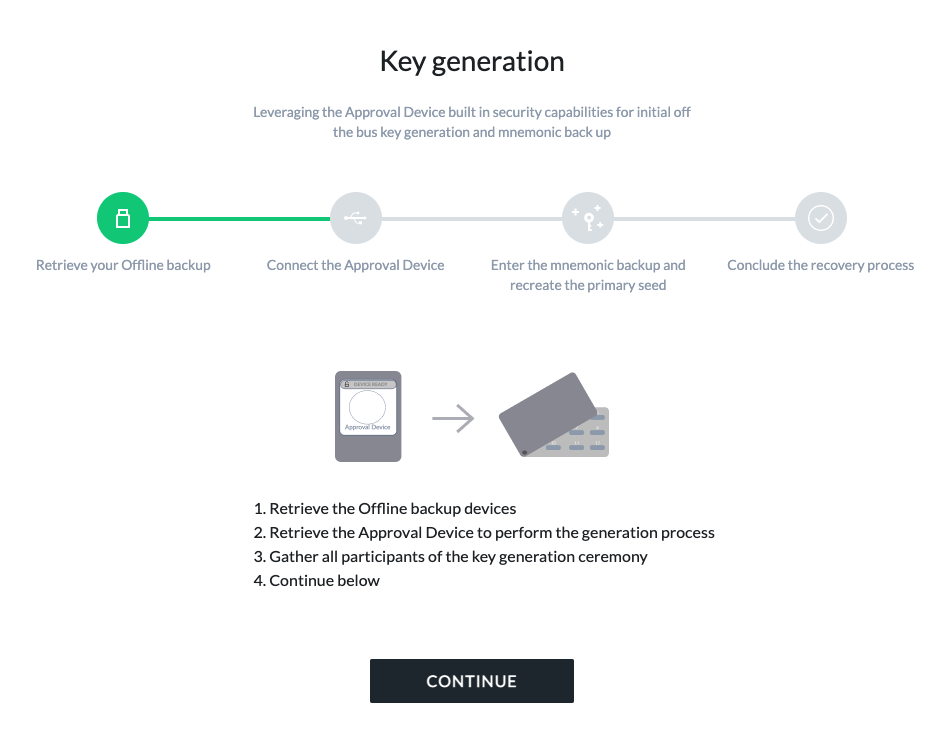
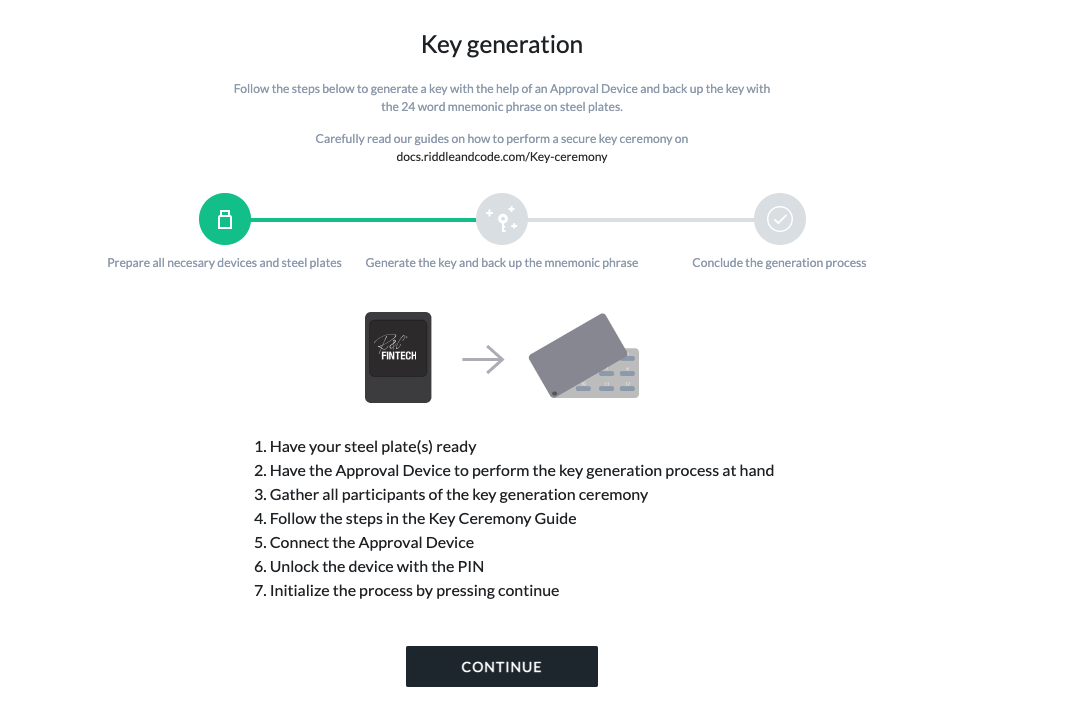
updated key ceremony with lates screenshots

Changed region(s): [[0.0305, 0.0311, 0.9748, 0.4045], [0.2437, 0.4356, 0.7616, 0.8402], [0.3655, 0.8713, 0.6092, 0.9958]]

diff --git a/docs/Key_ceremony_3_participants_3_plates.md b/docs/Key_ceremony_3_participants_3_plates.md
@@ -27,7 +27,7 @@ You will need the following:
 
 - The Approval Device - Seed edition.
 
-![Approval Device](./Approvaldevice.png/)
+![Approval Device](./assets/Approvaldevice.png)
 
 - A reliable computer with access to the Internet. RIDDLE&CODE recommends using Chrome, at least version 87.0.
 - 3 steel plates.
@@ -102,7 +102,7 @@ This will trigger the generation of a true random number—mnemonic phrase, whic
 - Next, the master of the ceremony asks the first participant to leave the room, and the second participant enters.
 
 
-###Second participant
+### Second participant
 - The master of ceremony opens the plates A (the side that doesn’t contain words) and C.
 - The second participant clicks on the Approval Device and privately reads the next 8 words.
 - The participant writes them down in plates A and C using the available slots  5 to 12 (the second and the third row).
@@ -110,7 +110,7 @@ This will trigger the generation of a true random number—mnemonic phrase, whic
 - The plate A is completed.
 
 
-###Third participant
+### Third participant
 - The master of ceremony and the third participant join the second participant, who then leaves.
 - The master of ceremony opens the plates B and C (the sides that contain no words).
 - The third participant clicks on the Approval Device and privately reads the final 8 words.
@@ -121,7 +121,7 @@ This will trigger the generation of a true random number—mnemonic phrase, whic
 Once you have generated and stored the phrase, it is time to perform a process called mnemonic validation. This process assures that all steel plates contain the correct words and that the mnemonic phrase can be used to recover the underlying keys. If mnemonic validation is not performed, there is no guarantee that you will be able to restore a mnemonic phrase.
 
 
-##Chapter 4: Mnemonic phrase validation
+## Chapter 4: Mnemonic phrase validation
 
 Mnemonic validation is performed with the steel plates marked with the stickers by the same master of ceremony and, typically, the previous participants. In this process, each side of all three plates is used to restore the mnemonic phrase.
 The master of ceremony, who guides the process, is responsible for handing out the correct plates to each participant and ensuring that the same side of the plate is not used twice.
@@ -143,13 +143,13 @@ In cases of disaster, for instance, when the cloud service gets destroyed, the A
 
 The recovery process follows similar steps as the initial key generation. The master of ceremony prepares the steel plates and a new/unused Approval Device. All participants in the ceremony need to be present.
 
-The administrator starts the process by accessing the web interface and navigating to the **Key Management section**. The administrator then clicks **Recover**.
+The administrator starts the process by accessing the web interface and navigating to the **Key Management section**. The administrator then clicks **Restore key backup**.
 
 ![Key management](./assets/Keymanagement.png)
 
 Next, the administrator connects the Approval Device to the computer, unlocks it with PIN and clicks **Initialize now**.
 
-![Key generation](./assets/Keygeneration.png)
+![Key generation](./assets/Keyrecovery.png)
 
 If you open any two steel plates, you’ll see that it has four sides. Three sides are different, while the fourth one represents a copy of one of the other three sides. To perform a recovery, you should take three different sides and use a mnemonic phrase in this order:
 

diff --git a/docs/Key_ceremony_for_2_participants_and_2_plates.md b/docs/Key_ceremony_for_2_participants_and_2_plates.md
@@ -91,7 +91,7 @@ In case that procedure is not being followed correctly, the master of ceremony i
 The master of ceremony gathers all participants (among them is an administrator) and prepares one Approval Device, two steel plates, two locks that fit the steel plates, a set of tweezers to help with inserting the letters in the steel plates and a flat screwdriver (or something similar).
 
 The administrator signs in to the dedicated interface via provided link: **https://<company-name>-ckm.r3c.network/**.
-The administrator connects the Approval Device - Seed generation to a computer, unlocks the device with the PIN (default PIN: 234) and clicks **Generate new master seed**.
+The administrator connects the Approval Device - Seed generation to a computer, unlocks the device with the PIN (default PIN: 234) and clicks **Generate new key**.
 
 This will trigger the generation of a true random number—mnemonic phrase, which then needs to be stored on the steel plates. The Approval Device remains connected to a computer during the entire process.
 
@@ -142,7 +142,7 @@ In cases of disaster, for instance, when the cloud service gets destroyed, the A
 
 The recovery process follows similar steps as the initial key generation. The master of ceremony prepares the steel plates and a new/unused Approval Device. All participants in the ceremony need to be present.
 
-The administrator starts the process by accessing the web interface and navigating to the **Key Management** section. The administrator then clicks **Restore master seed backup**. Next, the administrator connects the Approval Device to the computer, unlocks it with PIN and clicks **Initialize now**.
+The administrator starts the process by accessing the web interface and navigating to the **Key Management** section. The administrator then clicks **Restore key backup**. Next, the administrator connects the Approval Device to the computer, unlocks it with PIN and clicks **Continue**.
 
 The hash of the mnemonic phrase is displayed on the interface. The hash can be compared and verified against the one stored in the initial key generation process—if you open a steel plate, you’ll see that it has 2 sides with 12 words. Each plate contains the mnemonic phrase as a whole. If these hashes match, the original mnemonic phrase has been entered correctly.
 

diff --git a/docs/index.md b/docs/index.md
@@ -10,7 +10,8 @@ For all inquiries not already covered in this manual feel free to contact us dir
 
 1. [Product Documentation](Product-Documentation.md)
 2. [User Manuals](Token_Management_Platform_Manual.md)
-3. [Use Cases](Use-Cases.md)
-4. [Frequently Asked Questions](FAQ.md)
+3. [Key Ceremony](Key-ceremony.md)
+4. [Use Cases](Use-Cases.md)
+5. [Frequently Asked Questions](FAQ.md)
 6. [Release Notes](release-notes-tmp.md)
-5. [Glossary](Glossary.md)
+7. [Glossary](Glossary.md)
